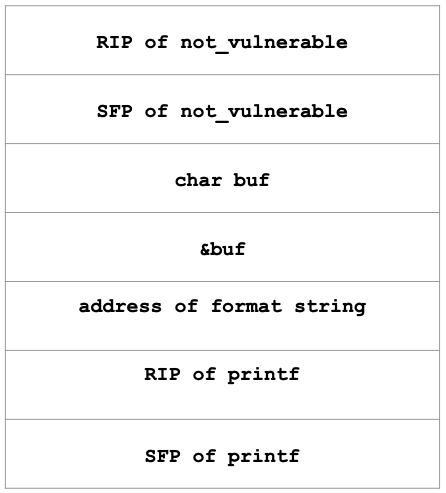
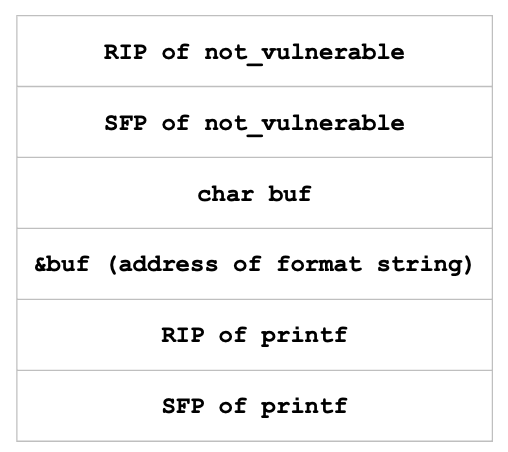
[fa23 - mem safety] fix printf image (#52)
* fix first printf image to remove excess pointer

* shrink image

* spring 2024 updates are still being made'

diff --git a/index.md b/index.md
@@ -13,7 +13,7 @@ This is the textbook for [CS 161: Computer Security](https://cs161.org/) at [UC 
 
 ## Corrections
 
-As of the Spring 2023 semester, this textbook is still being actively maintained and updated. Please contact [cs161-staff@berkeley.edu](mailto:cs161-staff@berkeley.edu) for information regarding corrections.
+As of the Spring 2024 semester, this textbook is still being actively maintained and updated. Please contact [cs161-staff@berkeley.edu](mailto:cs161-staff@berkeley.edu) for information regarding corrections.
 
 ## Source and Changelog
 
